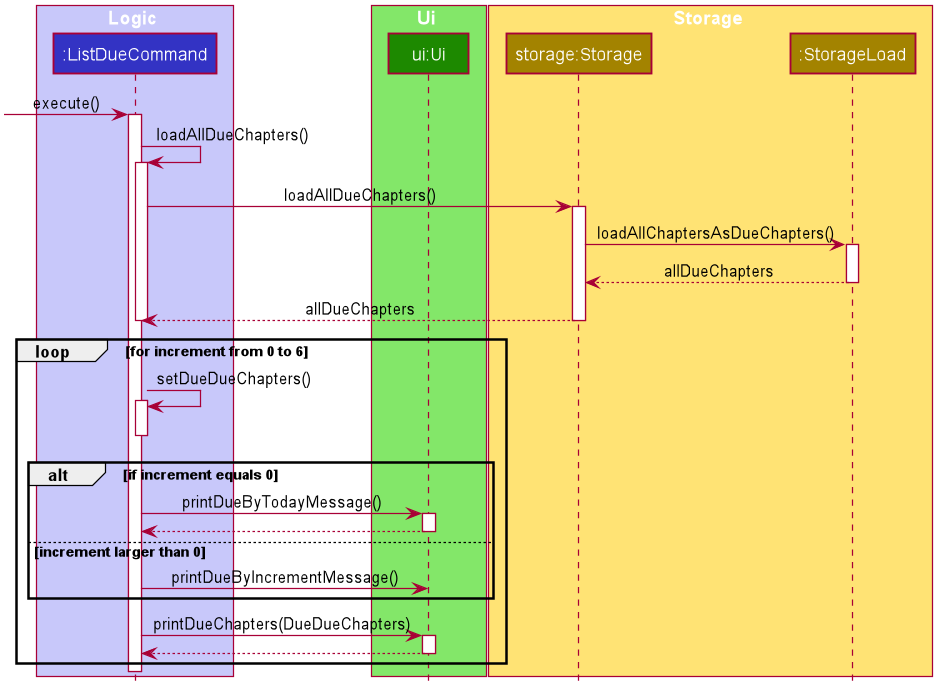
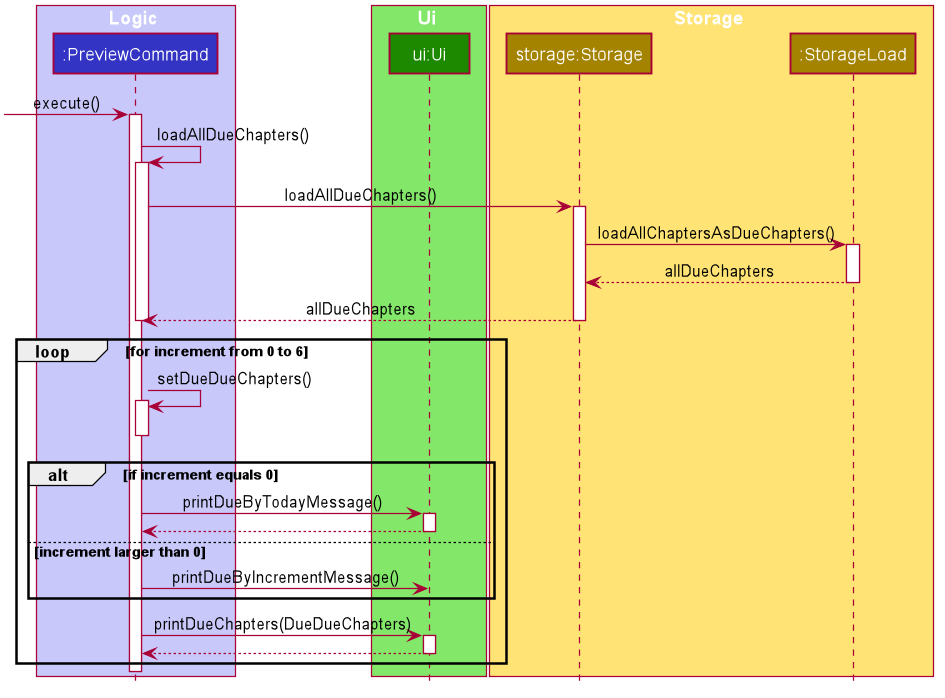
Update DG with section Examples

diff --git a/docs/DeveloperGuide.md b/docs/DeveloperGuide.md
@@ -524,6 +524,23 @@ To support the Access Chapter Level Feature, `GoChapterCommand` implements the f
 * `GoChapterCommand#goChapter()` - Parses through the Module that the User is currently on to search for the specified Chapter. If the Chapter is found but not empty, there will be no output message, while if the found Chapter is empty, a message prompting the user to add Cards to the Chapter will be returned.
 * `GoChapterCommand#execute()` - Calls `GoChapterCommand#goChapter()` and prints the output message returned if there is one.
 
+***Example***
+
+For instance, the user is currently in the Module `CS2113T` and would like to go to the Chapter 'Chapter 1' on the Chapter level. A detailed description of what happens is shown below:
+
+Step 1: The user enters `go 1`.
+
+Step 2: The user input is parsed by `Parser`, and `Parser` creates a `GoCommandParser` object, which in turn
+ creates a `GoChapterCommand` object, with `1` as the command argument.
+
+Step 3: `GoChapterCommand` is executed, and `GoChapterCommand#goChapter()` is called.
+
+Step 4: `GoChapterCommand#goChapter()` calls `Access#getModule()`, `Access#getChapters()` and `ChapterList#getAllChapters()` to obtain an ArrayList of Chapters.
+
+Step 5: Using the command argument as the `chapterIndex`, and all the Cards within the Chapter are loaded with `Storage#loadCard()` into an ArrayList of Cards.
+ 
+Step 6: Lastly, to finish the transition into the Chapter level, `Access#setChapterLevel()`, `Chapter#setCards()` and `Access#setChapter` are called.
+
 The following sequence Diagrams illustrates how the Access Chapter Level Feature is executed:
 
 
@@ -539,6 +556,19 @@ To execute this feature, the following class was created:
 
 To support the Return to Admin Level Feature, `BackAdminCommand` implements the following operation:
 * `BackAdminCommand#execute()` - Calls `Access#setModuleLevel()` to set the `Access` Object's `level` attribute's value to `adminLevel` if its current value is the `moduleLevel`
+
+***Example***
+
+For instance, the user is currently in the Module `CS2113T` and would like to return to the Admin Level.  A detailed description of what happens is shown below:
+
+Step 1: The user enters `back`.
+
+Step 2: The user input is parsed by `Parser`, and `Parser` creates a `BackCommandParser` object, which in turn
+ creates a `BackAdminCommand` object
+
+Step 3: `BackAdminCommand` is executed, and `Access#setModuleLevel()` is called.
+
+Step 4: `Access#setModuleLevel()` verifies that the user is not on the Admin level at the moment, and calls `Access#setBackAdminLevel()`, which sets the user back into the Admin Level.
 
 The following sequence Diagrams illustrates how the Return to Admin Level Feature is executed:
 
@@ -829,26 +859,6 @@ To support this feature, `Scheduler` implements the following operations:
 
 `Scheduler#computeEasyInterval()`, `Scheduler#computeMediumInterval()` and `Scheduler#computeHardInterval()` are exposed in the `ReviseCommand` class as `ReviseCommand#rateCard()` while `Scheduler#computeDeckDeadline()` is exposed as `ReviseCommand#execute()`.
 
-***Example***
-Given below is an example usage scenario on how the Scheduler mechanism behaves at each step when: 
-`revise 1` is called in a `Module` that contains only one `Chapter` with three `Card`s in its `CardList` attribute and confirmation is given to proceed with revision.
-
-\<OBJECT DIAGRAMS\>
-
-Step 1:
-* The user enters `revise 1` within the `Module` and `ReviseCommand` is instantiated. 
-* Upon confirmation to revise and a check that `CardList` of the designated `Chapter` is not empty is complete, `ReviseCommand` proceeds to create a `ArrayList<Card> allCards` comprising of all `Card`s within in the `CardList`.
-
-Step 2:
-* For each `Card` in `allCards`, `ReviseCommand#reviseCard()` is called upon completion of either `ReviseCommand#execute()` or `ReviseCommand#repeateRevision()`.
-* This operation then calls `Scheduler#computeEasyInterval()`, `Scheduler#computeMediumInterval()` or `Scheduler#computeHardInterval()` depending on the user input to compute and update the new value of `previousInteral` for each card.
-
-Step 3:
-* Upon completion of all revision, `ReviseCommand#execute()` will call `Scheduler#computeDeckDeadline()`, which in turn calls `Scheduler#computeDeckInterval()`. `Scheduler#computeDeckInterval()` computes `deckInterval`, the mean (rounded off to the nearest integer) of the `previousInterval`s of each `Card` in `allCards,` and returns it to `Scheduler#computeDeckDeadline()`.
-
-Step 4:
-* Using `deckInterval`, `Scheduler#computeDeckDeadline()` computes the new value of `dueBy` for the Chapter, which is then returned to `ReviseCommand#execute()`, where it will then update the value of `dueBy` for the `Chapter` that was just revised.
-
 ##### <a href="#top">Back to Top ^</a>
 
 ### 4.5. Viewing and Customising the Schedule Feature
@@ -886,6 +896,21 @@ On top of that, `Storage` implements the following operations:
 * `Storage#checkAllChaptersForDue()` - Obtains the name of every `Chapter` from the list of Modules passed to it and calls `Storage#checkChapterDeadline()` for each of them
 * `Storage#loadAllDueChapters()` - Obtains the names of every `Module` in the user database and calls `Storage#checkAllChaptersForDue()`
 
+***Example***
+
+For instance, the user wants to check what Chapters are due at the moment.  A detailed description of what happens is shown below:
+
+Step 1: The user enters `due`.
+
+Step 2: The user input is parsed by `Parser`, and `Parser` creates a `ListDueCommand` object.
+
+Step 3: `ListDueCommand` is executed and calls the method `ListDueCommand#loadAllDueChapters()`, which will call `Storage#loadAllDueChapters()`, which will then call `StorageLoad#loadAllChaptersAsDueChapters()`. The name of every  Chapter, their deadlines, and the name of the Module that they belong to, will be stored as a `DueChapter` and be returned to `ListDueCommand`.
+
+Step 4: `ListDueCommand` will then call `ListDueCommand#setDueDueChapters()` to parse each `DueChapter` for those
+ that are already due by the current date, and add them to its `dueDueChapters` attribute.
+ 
+Step 5: `ListDueCommand` will then call `Ui#printDueByTodayMessage()` to print the prompt, and then call `Ui#printDueChapters()`, to print out the contents of `dueDueChapters`
+
 The following sequence Diagrams illustrates how the View Due Chapters Process is executed:
 
 <p align="center">
@@ -918,6 +943,31 @@ On top of that, the following operations from `Storage` are used:
 * `Storage#checkChapterDeadline()` - Reads the deadline for each `Chapter`, prompts if they are corrupted, and adds a `DueChapter` formed with the `Chapter` into `ArrayList<DueChapter> allDueChapters`
 * `Storage#checkAllChaptersForDue()` - Obtains the name of every `Chapter` from the list of Modules passed to it and calls `Storage#checkChapterDeadline()` for each of them
 * `Storage#loadAllDueChapters()` - Obtains the names of every `Module` in the user database and calls `Storage#checkAllChaptersForDue()`
+
+***Example***
+
+For instance, the user wants to check what Chapters are due on in the upcoming week.  A detailed description of what happens is shown below:
+
+Step 1: The user enters `preview`.
+
+Step 2: The user input is parsed by `Parser`, and `Parser` creates a `PreviewCommand` object.
+
+Step 3: `PreviewCommand` is executed and calls the method `PreviewCommand#loadAllDueChapters()`, which will call
+ `Storage#loadAllDueChapters()`, which will then call `StorageLoad#loadAllChaptersAsDueChapters()`. The name of every
+  Chapter, their deadlines, and the name of the Module that they belong to, will be stored as a `DueChapter` and be
+   returned back to `PreviewCommand`.
+
+Step 4: To check for each day in the upcoming week, `PreviewCommand` runs a for loop with to carry out the following
+ steps for `increment` of value from 0 to 6
+ 
+Step 5: `PreviewCommand` will then call `PreviewCommand#setDueDueChapters()` to parse each `DueChapter` for those
+ that are already due on the current date + `increment` days, and add them to its `dueDueChapters` attribute.
+ 
+Step 5: `PreviewCommand` will then call `Ui#printDueByTodayMessage()` to print the prompt if the value of `increment` is 0, and `Ui#printDueByIncrementMessage()` to print the prompt if the value of `increment` is from 1 to 6.
+
+Step 6: `PreviewCommand` will then finally call `Ui#printDueChapters()`, to print out the contents of `dueDueChapters` for the current iteration.
+
+Step 7: Increment the value of `increment` by 1, and go back to Step 4 if the value of `increment` is smaller than 7.
 
 The following sequence Diagrams illustrates how the Preview Upcoming Dues Process is executed:
 
@@ -964,7 +1014,34 @@ Items are added into the `ArrayList<String>` Exclusion List using two pairs of c
     * `ExcludeCommand#addModuleToExclusion()` - gets the name of the `Module` to be excluded, and calls `Storage#appendModuleToExclusionFile()`
     * `Storage#appendModuleToExclusionFile()` - appends every `Chapter` of the target `Module` not already in the Exclusion File to it if the target `Module` exists
 
-The following sequence Diagrams illustrates how the "include" command is executed:
+***Example***
+
+For instance, the user wants to exclude the Module `CS2113T` from his schedule. A detailed description of what happens is shown below:
+
+Step 1: The user enters `exclude module`
+
+Step 2: The user input is parsed by `Parser`, and `Parser` creates a `ExcludeCommand` object.
+
+Step 3: `ExcludeCommand` is executed and calls the method `ExcludeCommand#attemptToExclude()`.
+
+Step 4: `ExcludeCommand#attemptToExclude()` checks the command argument, `module` for the `exclude` command and calls
+ `ExcludeCommand#addModuleToExclusion()`
+
+Step 5: `ExcludeCommand` calls `Ui#getExcludedModuleName()` to obtain the name of the module that is to be excluded from the scheduling process, so the user will enter `CS2113T` here
+
+Step 6: `ExcludeCommand` will then call `Storage#appendModuleToExclusionFile()`, which will in turn call
+ `StorageWrite#appendModuleToExclusionFile()` to begin the process of Updating the Exclusion File.
+ 
+Step 7: `StorageWrite` will load the contents of the Exclusion File into `excludedChapters` using `StorageLoad#loadExclusionFile()` and
+ load the Chapters of the `CS2113T` by calling `StorageLoad#loadChaptersFromSpecifiedModule()`.
+ 
+Step 8: `StorageWrite` will then check through the contents of the Exclusion file for each of the Chapters in `CS2113T`, and
+ add them into `excludedChapters` if it is not already in it.
+ 
+Step 9: After the inclusion of every Chapter in the `CS2113T` into `excludedChapters`, the contents of it are
+ written back by `StorageWrite` into the Exclusion File by calling `StorageWrite#updateExclusionFile()`.
+ 
+The following sequence Diagrams illustrates how the "exclude" command is executed:
 
 <p align="center">
   <img src="DG_Images/excludeSeq.png" width="800" alt="Sequence Diagram of the exclude command"/>
@@ -988,6 +1065,33 @@ Items are removed from the `ArrayList<String>` Exclusion List using two pairs of
 * Including a Module from Scheduling
     * `IncludeCommand#removeModuleFromExclusion()`- gets the name of the `Module` to be included, and calls `Storage#removeModuleFromExclusionFile()`
     * `Storage#removeModuleFromExclusionFile()` - removes every `Chapter` of the target `Module` that is in the Exclusion File
+
+***Example***
+
+For instance, the user wants to include the Module `CS2113T` back into his schedule. A detailed description of what happens is shown below:
+
+Step 1: The user enters `include module`
+
+Step 2: The user input is parsed by `Parser`, and `Parser` creates a `IncludeCommand` object.
+
+Step 3: `IncludeCommand` is executed and calls the method `IncludeCommand#attemptToInclude()`.
+
+Step 4: `IncludeCommand#attemptToInclude()` checks the command argument, `module` for the `include` command and calls
+ `IncludeCommand#removeModuleFromExclusion()`
+
+Step 5: `IncludeCommand` calls `Ui#getIncludedModuleName()` to obtain the name of the module that is to be included back into the scheduling process, so the user will enter `CS2113T` here
+
+Step 6: `IncludeCommand` will then call `Storage#removeModuleFromExclusionFile()`, which will in turn call
+ `StorageWrite#removeModuleFromExclusionFile()` to begin the process of Updating the Exclusion File.
+ 
+Step 7: `StorageWrite` will load the contents of the Exclusion File into `excludedChapters` using `StorageLoad#loadExclusionFile()` and
+ load the Chapters of the `CS2113T` by calling `StorageLoad#loadChaptersFromSpecifiedModule()`.
+ 
+Step 8: `StorageWrite` will then check through the contents of the Exclusion file for each of the Chapters in `CS2113T`, and
+ remove them from `excludedChapters` if found.
+ 
+Step 9: After the removal of every Chapter in the `CS2113T` from `excludedChapters`, the contents of it are
+ written back by `StorageWrite` into the Exclusion File by calling `StorageWrite#updateExclusionFile()`.
 
 The following sequence Diagrams illustrates how the "include" command is executed:
 
